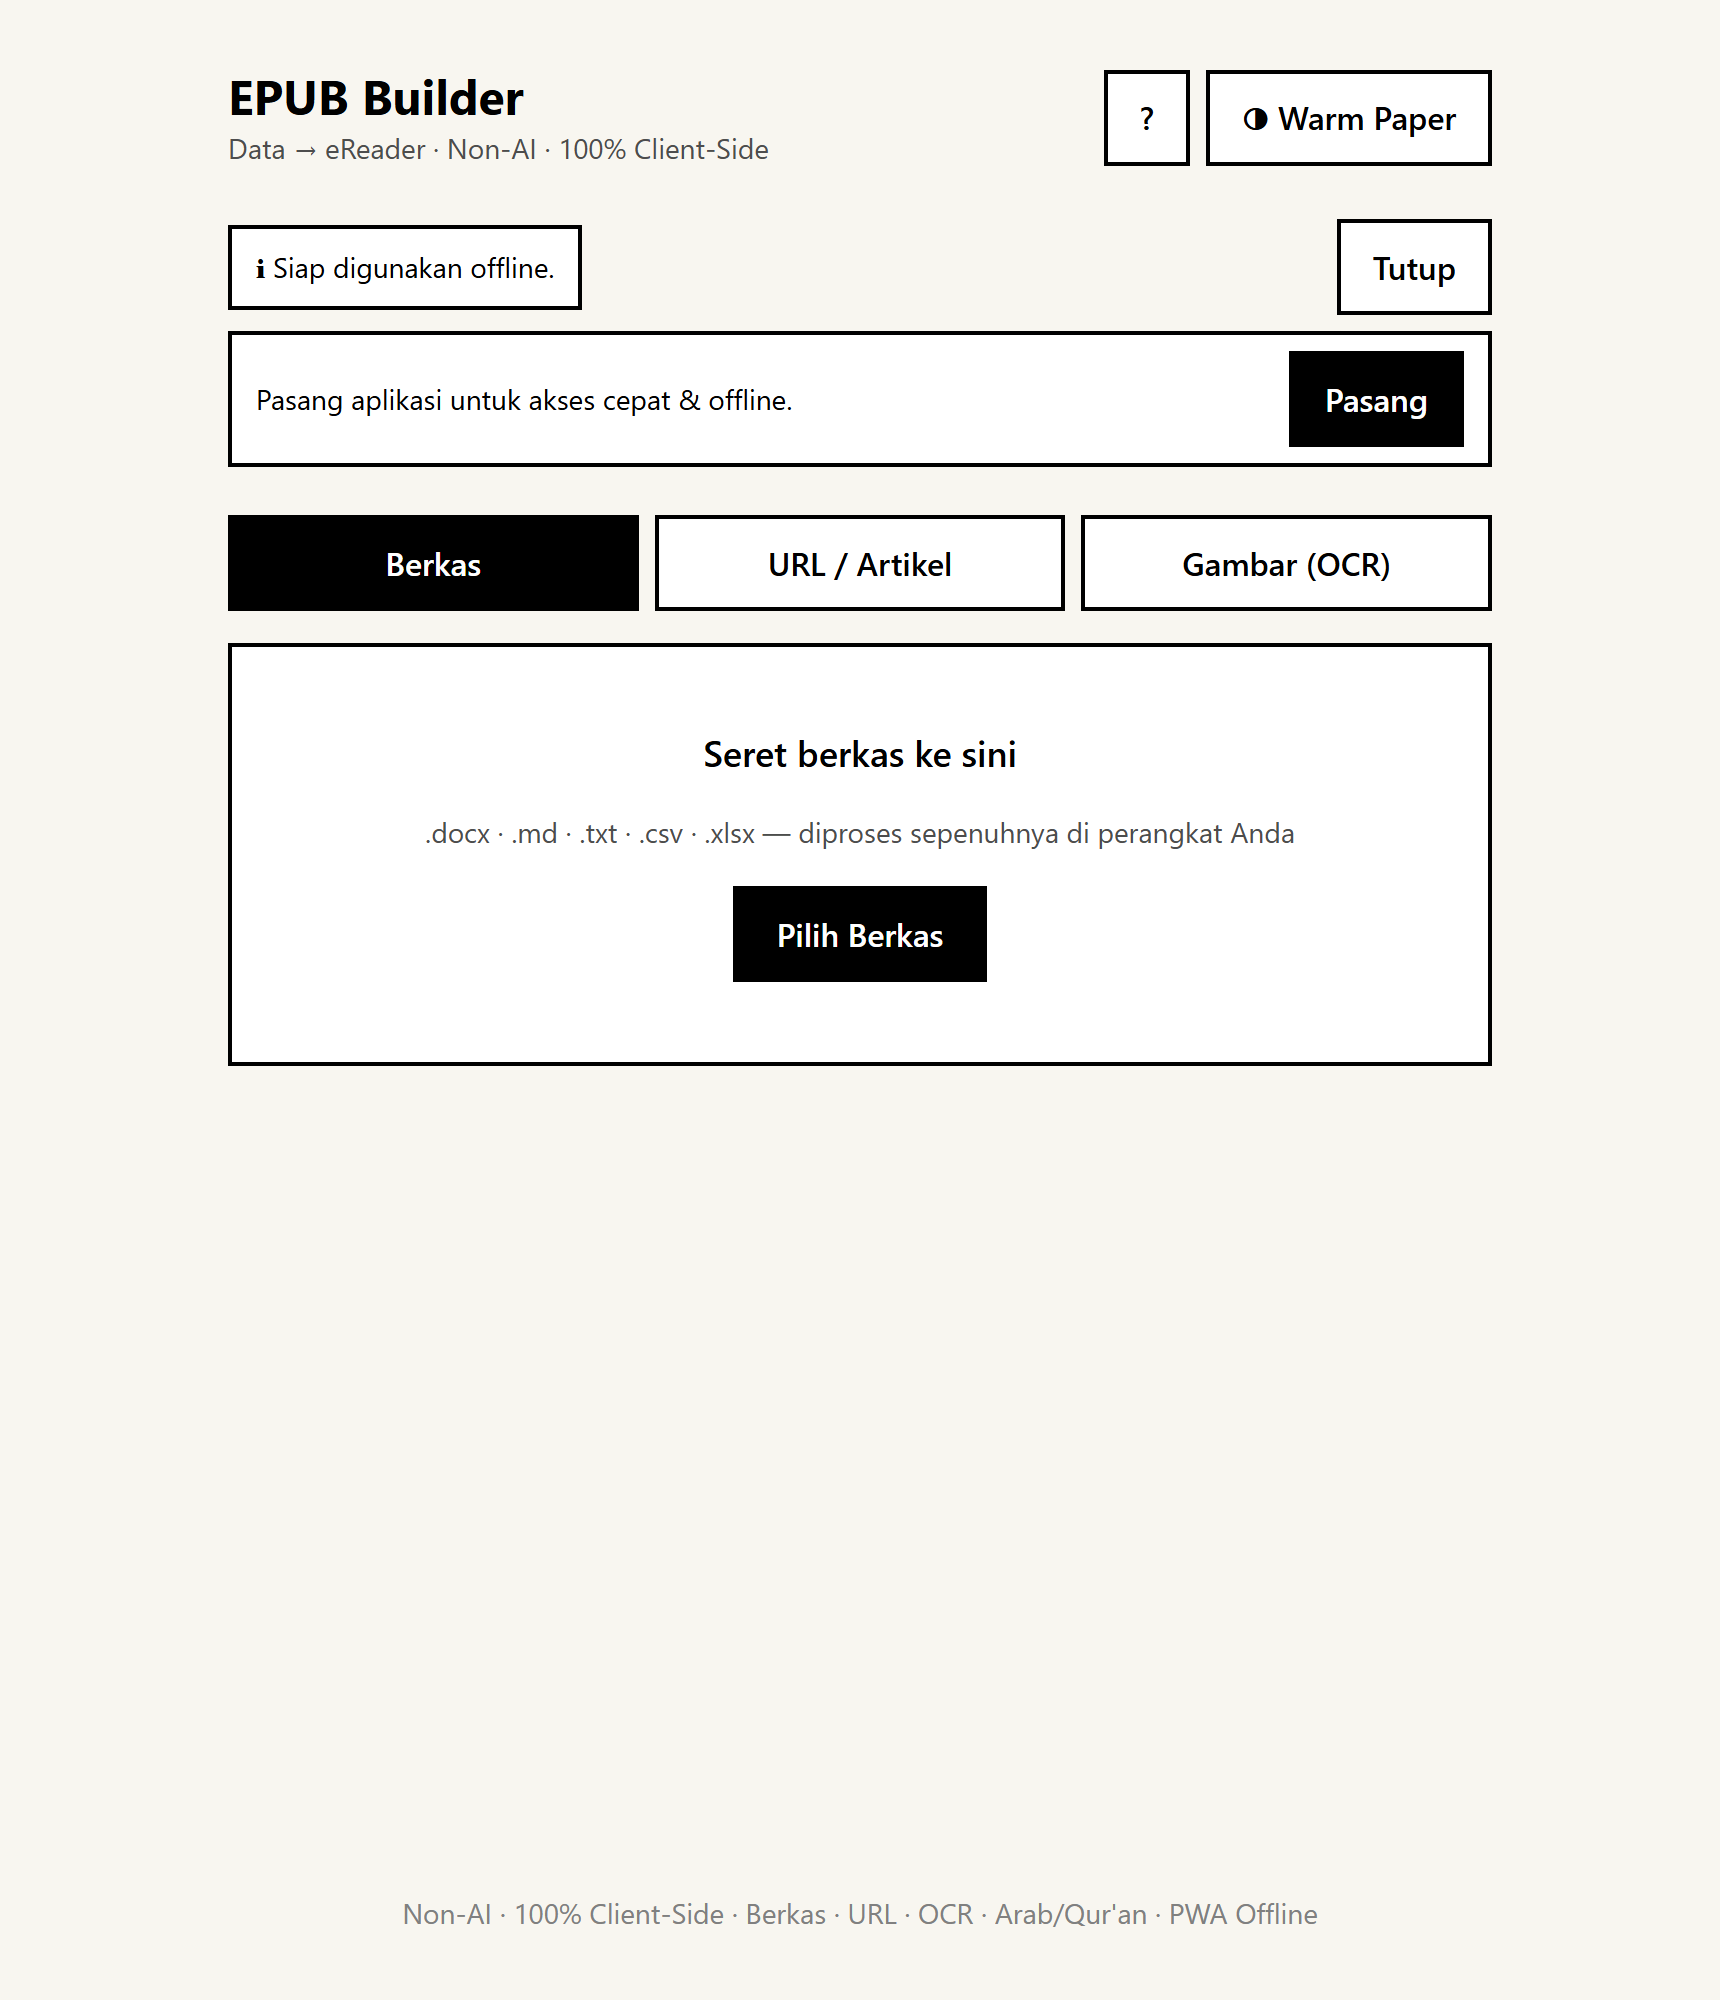
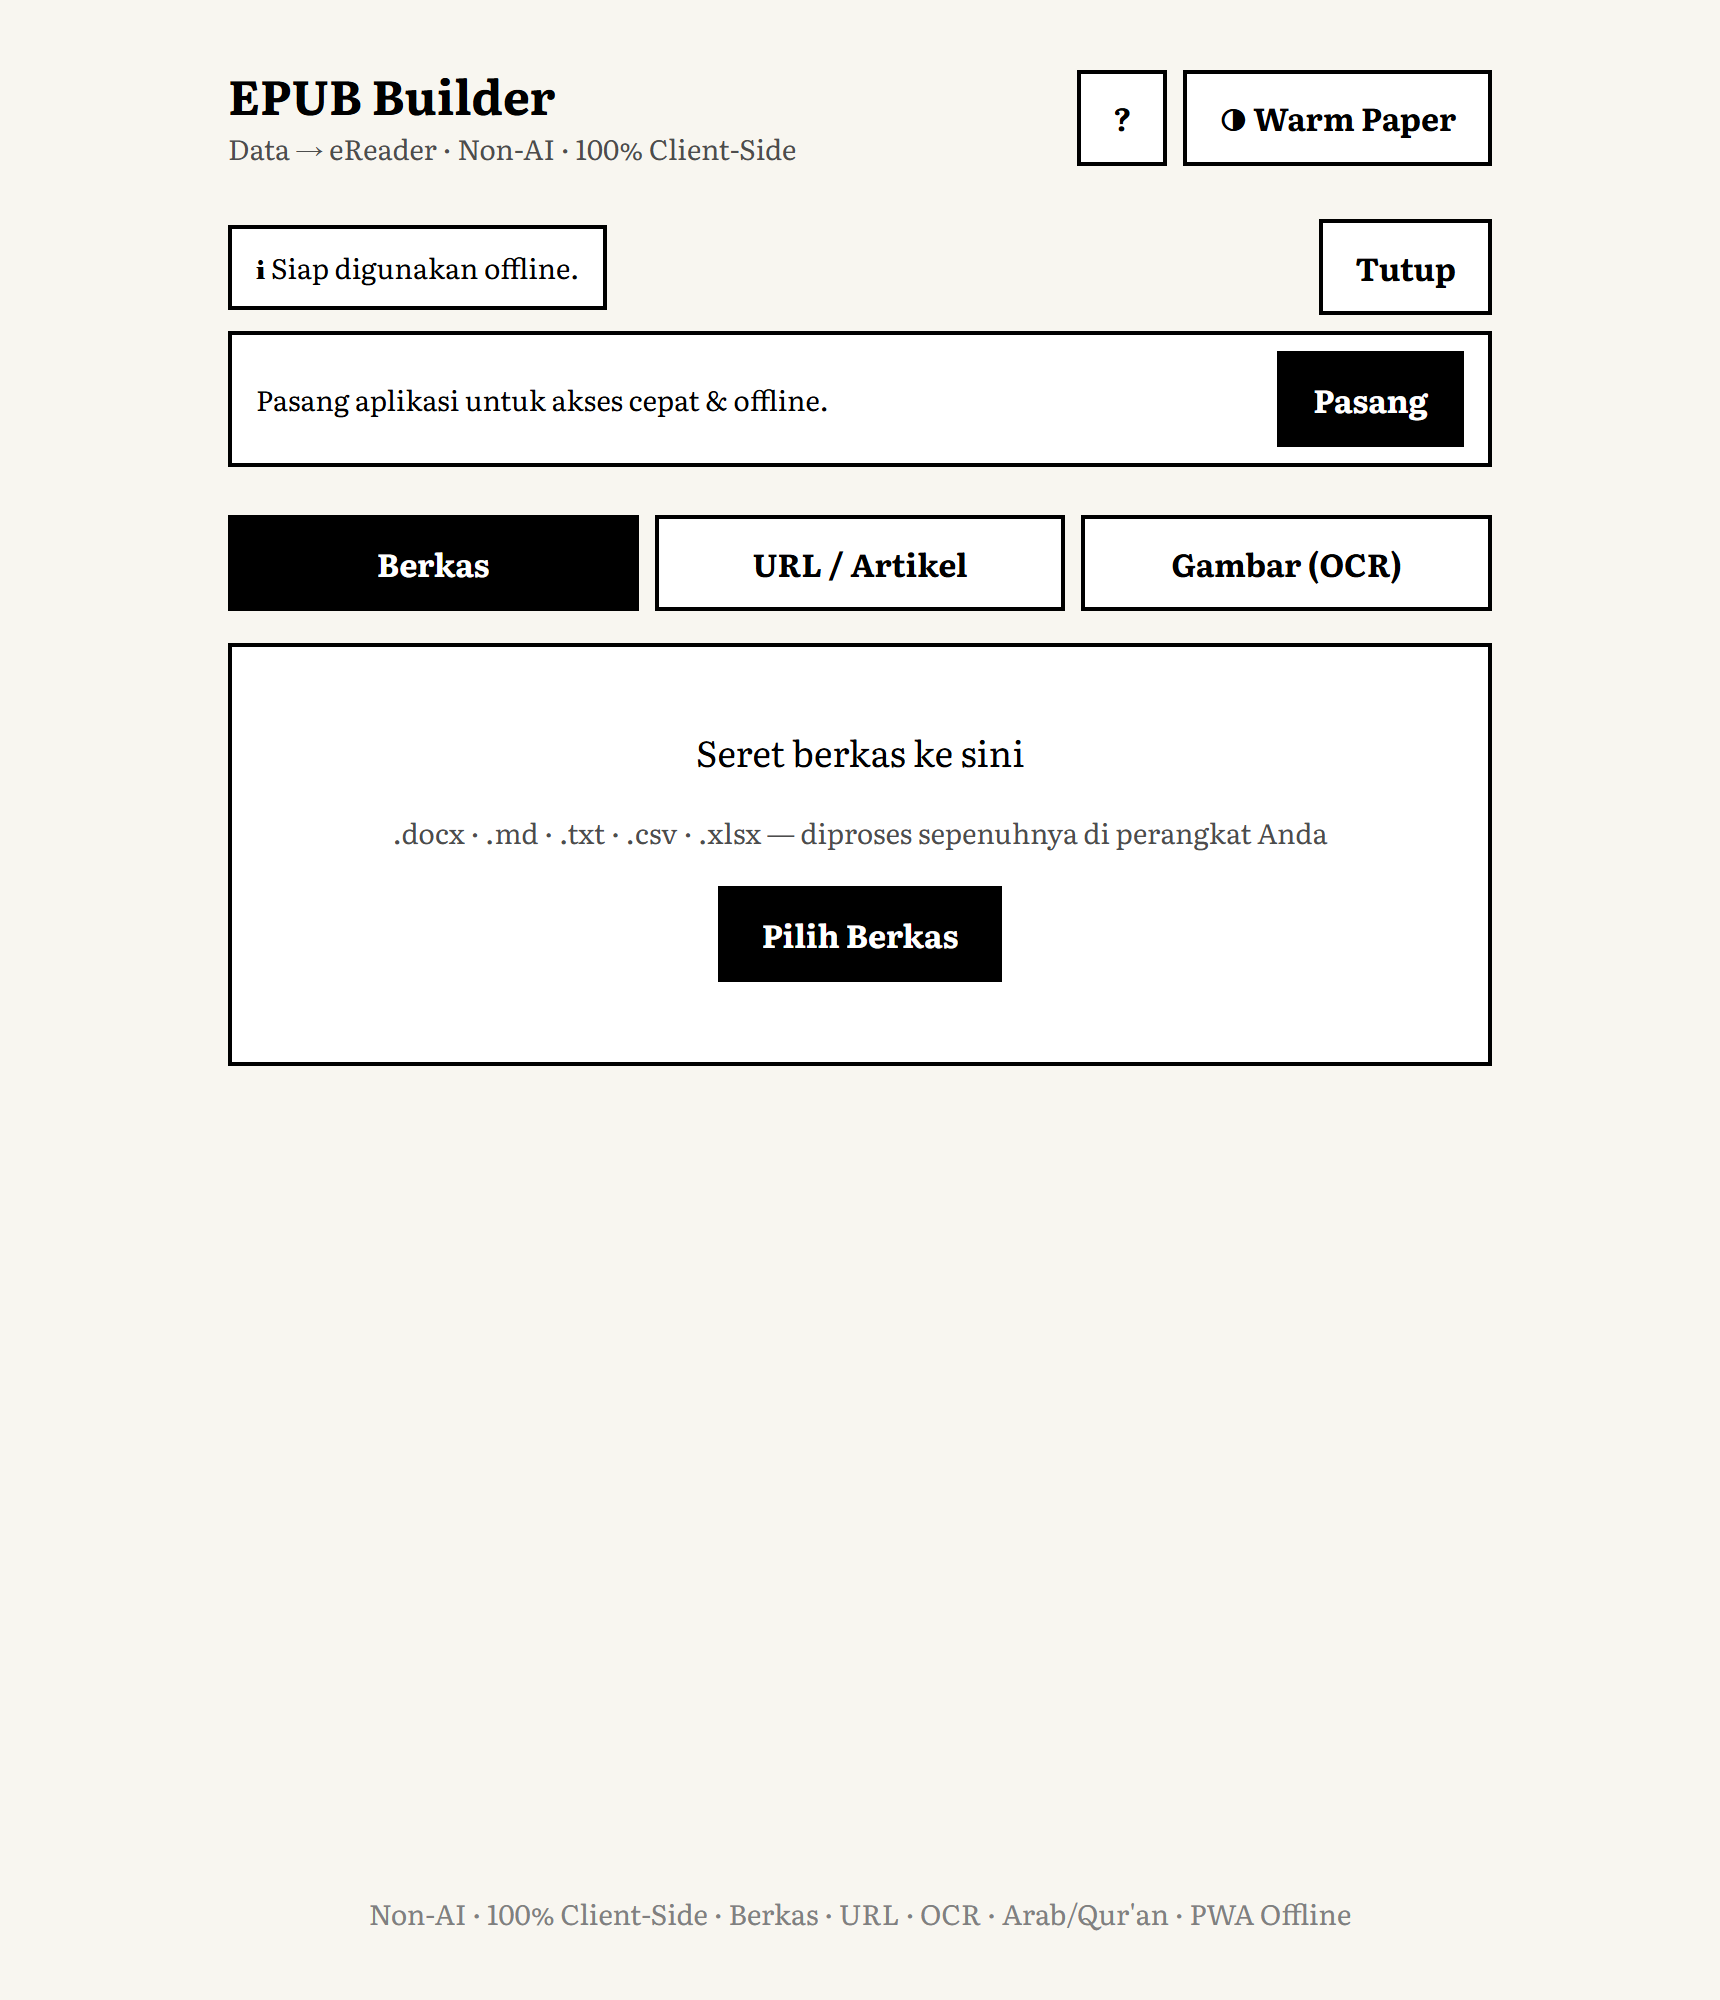
feat(ui): font antarmuka serif ala eReader (Literata web font)
- Muat Literata sebagai web font UI via woff2 latin (~42KB total, ringan)
- body + font-ui Tailwind -> Literata serif; smoothing antialiased agar rapi
- Preload woff2 400 di index.html (kurangi FOUT)
- UI kini kohesif dengan konten bacaan/EPUB (sama-sama Literata)
- Bundle JS tetap 497KB (font di /fonts/, runtime-cached); build tetap ringan
- Perbarui screenshot README + LICENSES (OFL)

diff --git a/src/styles/index.css b/src/styles/index.css
@@ -3,6 +3,26 @@
 @tailwind utilities;
 
 /*
+ * Font UI = Literata (serif ramah-baca, nuansa eReader/buku) — di-embed sebagai
+ * web font (woff2 latin, ~42 KB total) agar tampilan konsisten di semua perangkat
+ * tanpa bergantung font sistem. Sama dengan font konten EPUB Latin → kohesif.
+ */
+@font-face {
+  font-family: 'Literata';
+  font-style: normal;
+  font-weight: 400;
+  font-display: swap;
+  src: url('/fonts/literata-latin-400.woff2') format('woff2');
+}
+@font-face {
+  font-family: 'Literata';
+  font-style: normal;
+  font-weight: 700;
+  font-display: swap;
+  src: url('/fonts/literata-latin-700.woff2') format('woff2');
+}
+
+/*
  * Design tokens E-Ink (CSS variables) — dipakai juga oleh Immersion Mode
  * untuk menukar nuansa UI secara instan (Warm Paper <-> Pure Grayscale).
  */
@@ -33,9 +53,10 @@
     margin: 0;
     background-color: var(--paper);
     color: var(--ink);
-    font-family: Inter, Roboto, 'Noto Sans', system-ui, sans-serif;
-    /* Kontras tajam, tanpa anti-alias berlebih yang memburamkan e-ink */
-    -webkit-font-smoothing: none;
+    /* Serif ramah-baca ala eReader/buku */
+    font-family: 'Literata', 'Charis SIL', Georgia, serif;
+    -webkit-font-smoothing: antialiased;
+    -moz-osx-font-smoothing: grayscale;
     text-rendering: optimizeLegibility;
   }
 

diff --git a/tailwind.config.ts b/tailwind.config.ts
@@ -38,7 +38,8 @@ export default {
     },
     // Tipografi sesuai brief: UI sans-serif tajam, konten serif ramah mata, Arab Naskh.
     fontFamily: {
-      ui: ['Inter', 'Roboto', 'Noto Sans', 'system-ui', 'sans-serif'],
+      // UI & reader sama-sama Literata serif (nuansa eReader/buku, kohesif dengan EPUB).
+      ui: ['Literata', 'Charis SIL', 'Georgia', 'serif'],
       reader: ['Literata', 'Bookerly', 'Charis SIL', 'Georgia', 'serif'],
       arabic: ['"LPMQ Isep Misbah"', '"KFGQPC Uthmanic Hafs"', '"Amiri Quran"', '"Scheherazade New"', 'serif'],
     },

diff --git a/index.html b/index.html
@@ -3,6 +3,7 @@
   <head>
     <meta charset="UTF-8" />
     <link rel="icon" type="image/svg+xml" href="/favicon.svg" />
+    <link rel="preload" href="/fonts/literata-latin-400.woff2" as="font" type="font/woff2" crossorigin />
     <meta name="viewport" content="width=device-width, initial-scale=1.0, viewport-fit=cover" />
     <meta name="theme-color" content="#000000" />
     <meta

diff --git a/public/fonts/LICENSES.md b/public/fonts/LICENSES.md
@@ -12,6 +12,11 @@ pada tautan masing-masing.
 | `ScheherazadeNew-Regular.ttf` | Scheherazade New | Arab | SIL Open Font License 1.1 | https://software.sil.org/scheherazade/ |
 | `Literata-Regular.ttf` | Literata | Latin/Kiril | SIL Open Font License 1.1 | https://github.com/googlefonts/literata |
 | `Literata-Bold.ttf` | Literata | Latin/Kiril | SIL Open Font License 1.1 | https://github.com/googlefonts/literata |
+| `literata-latin-400.woff2` | Literata | Latin (UI) | SIL Open Font License 1.1 | https://github.com/googlefonts/literata |
+| `literata-latin-700.woff2` | Literata | Latin (UI) | SIL Open Font License 1.1 | https://github.com/googlefonts/literata |
+
+`.ttf` dipakai untuk disematkan ke EPUB (bisa di-subset); `.woff2` ringan dipakai
+sebagai font antarmuka aplikasi (UI).
 
 Font di bawah SIL OFL 1.1 boleh digunakan, dimodifikasi (termasuk subsetting),
 dan disematkan ke dokumen secara bebas. Lihat https://openfontlicense.org/.
